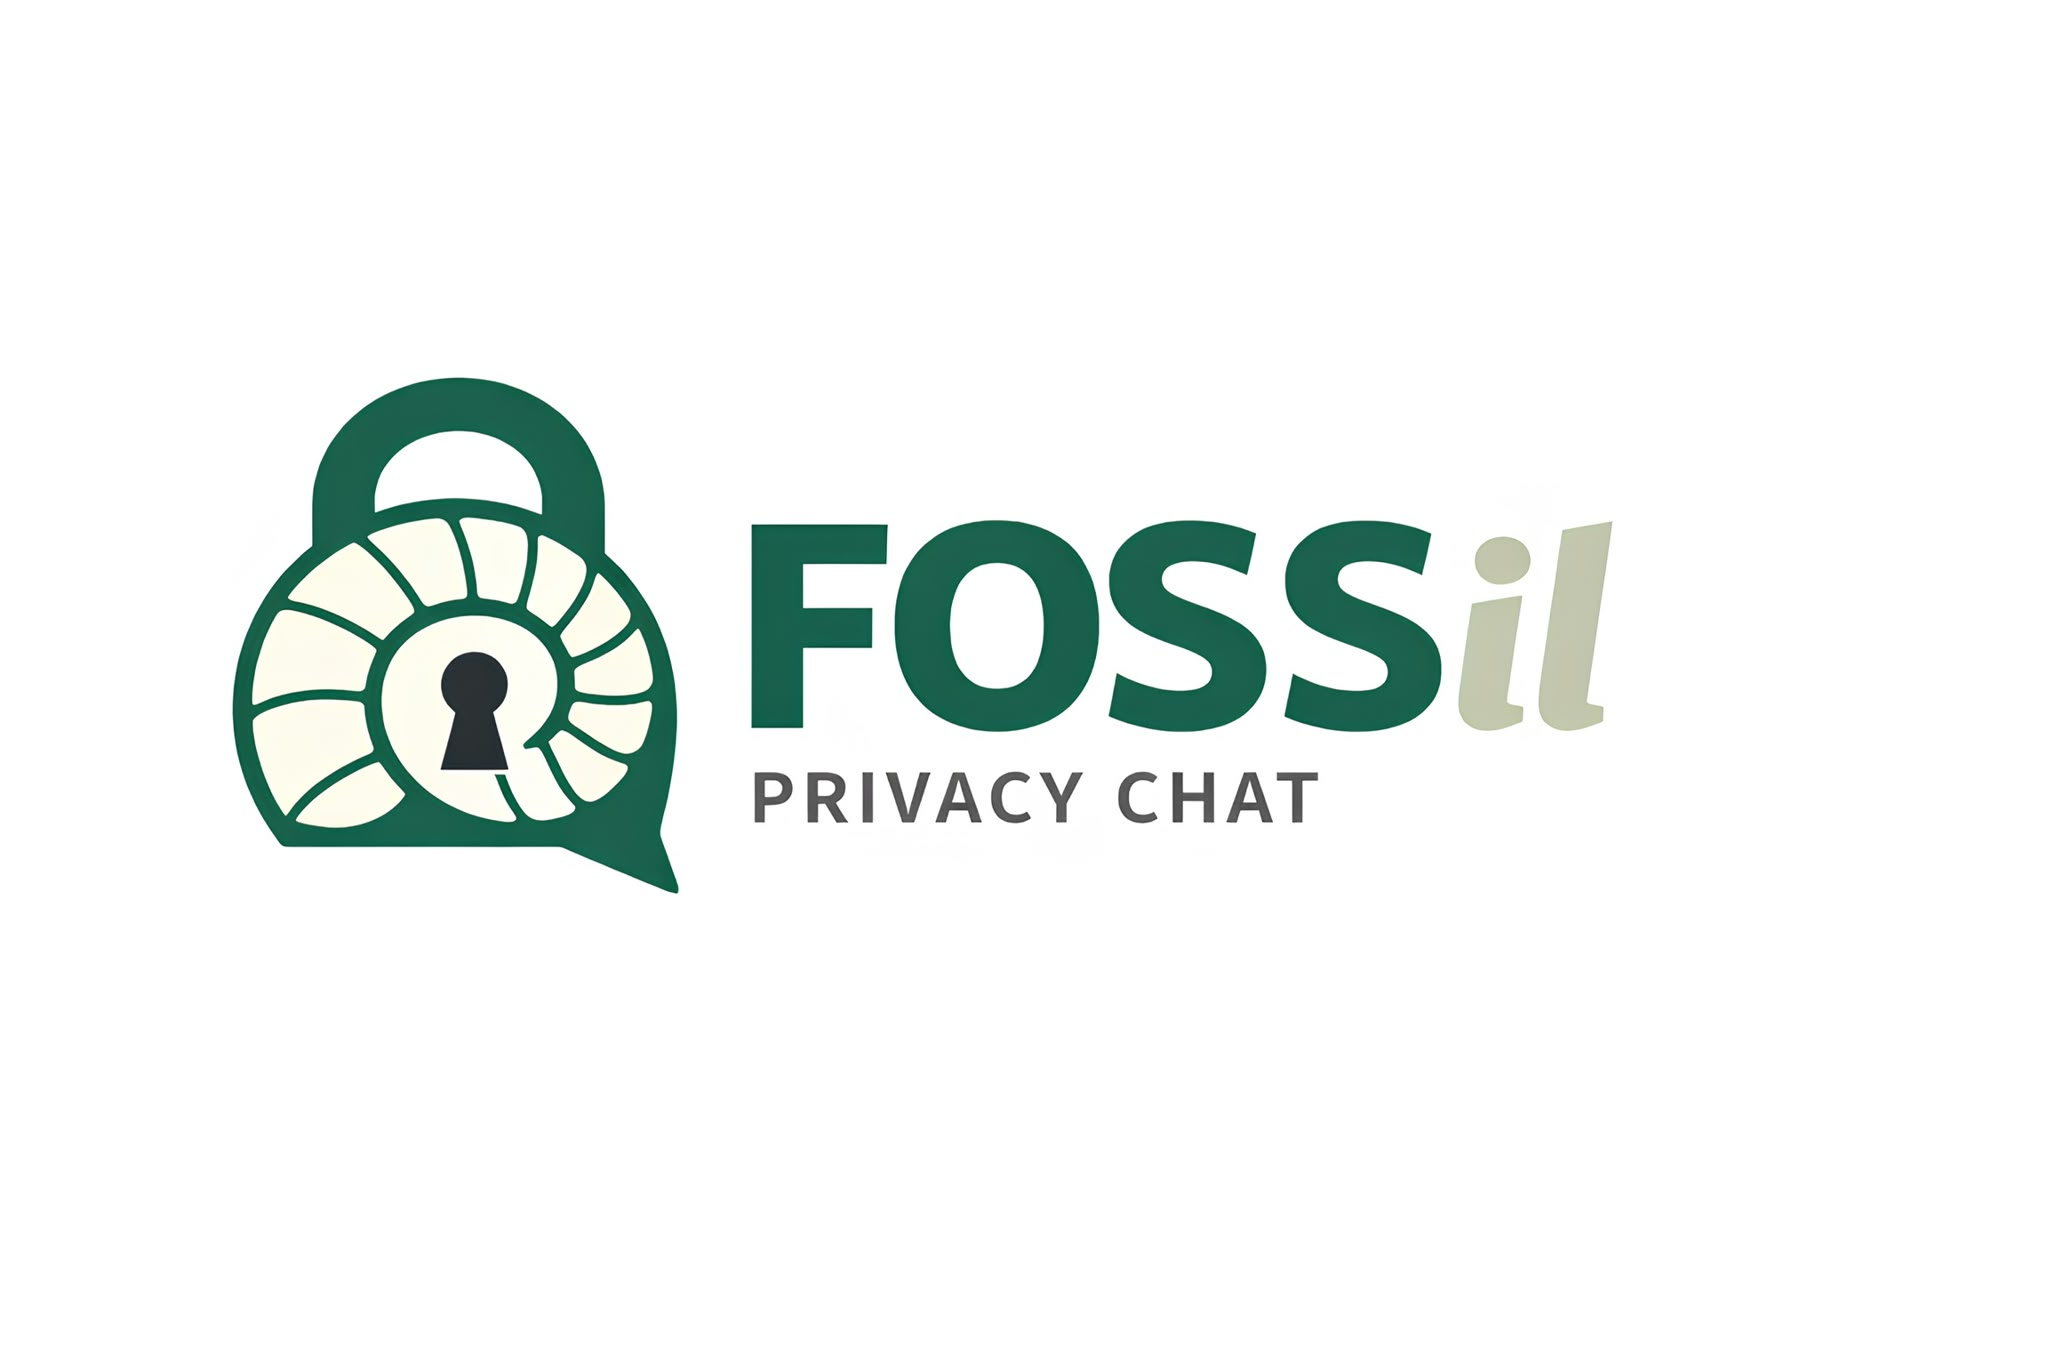
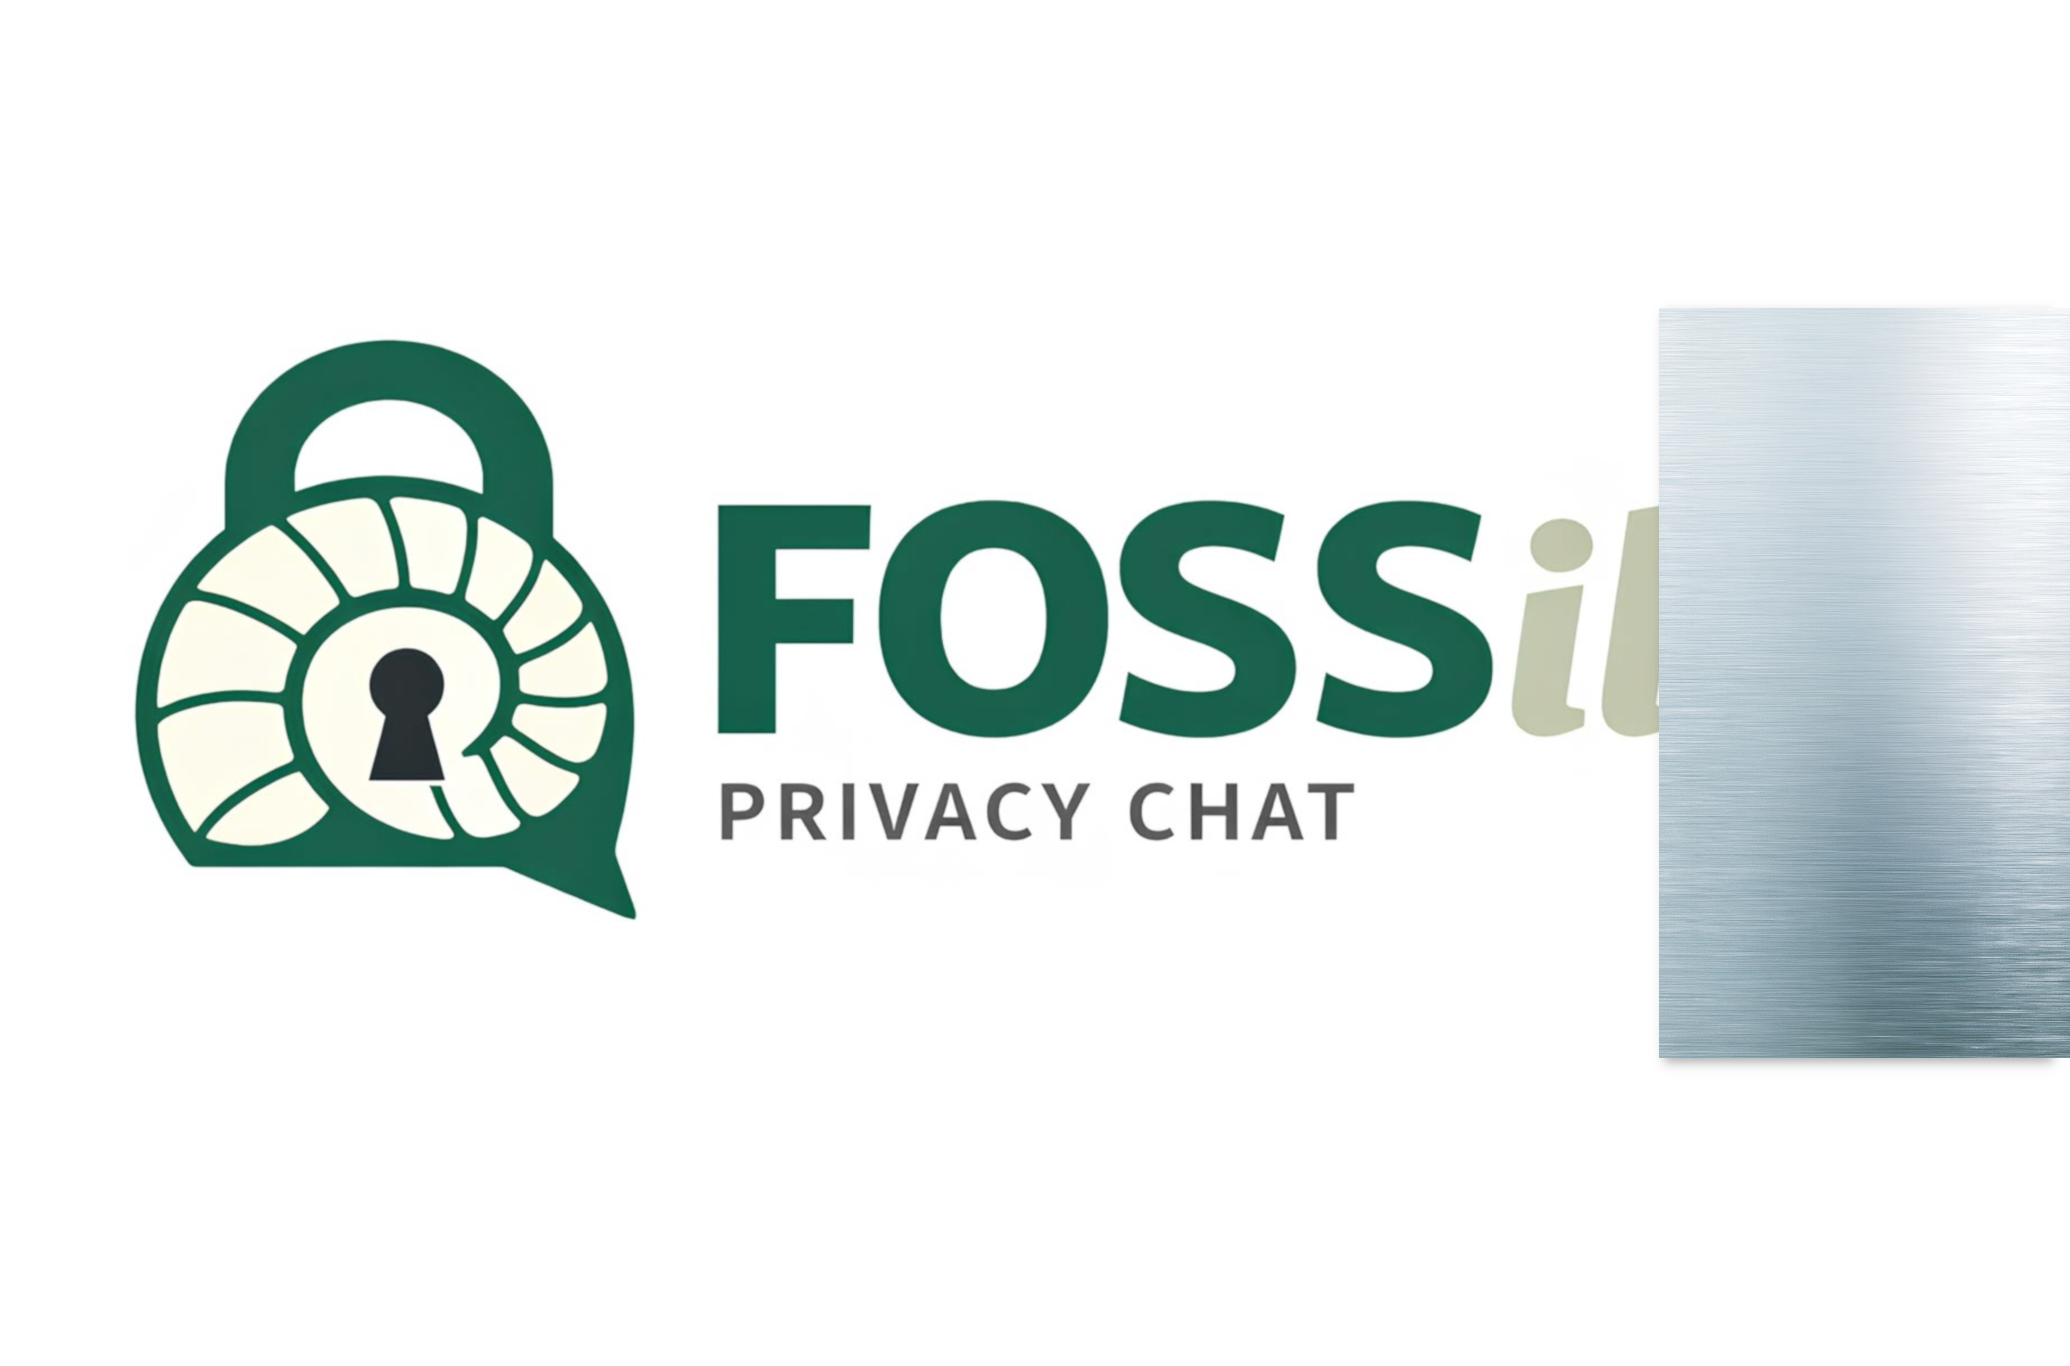
pinpointing design language

Changed region(s): [[0.0625, 0.2152, 1.0, 0.7994]]

diff --git a/client/src/gui.rs b/client/src/gui.rs
@@ -14,9 +14,9 @@ pub fn launch() {
 
 #[component]
 fn App() -> Element {
-    let fonts = format!(
+        let fonts = format!(
         "@font-face {{
-            font-family: 'Liberation Sans Regular';
+            font-family: 'Liberation Sans';
             src: url('{REGULAR}') format('truetype');
             font-weight: normal;
         }}
@@ -27,39 +27,36 @@ fn App() -> Element {
         }}"
     );
 
-    let rsx_style = format!(
-        "width: 100%;
-         height: 100vh;
-         background-image: url('{BG_IMAGE}');
-         background-size: cover;
-         background-position: center;
-         background-repeat: no-repeat;
-         display: flex;
-         flex-direction: column;
-         justify-content: center;
-         align-items: flex-end;
-         padding-right: 40px;"
-    );
-
     rsx! {
 
         style { "{fonts}" }
 
         div {
 
-            style: "{rsx_style}",
+            style: "position: relative; width: 100vw; height: 100vh; overflow: hidden;",
 
-            p {
-                style: "font-family: 'Liberation Sans'; font-weight: bold; font-size: 24px;",
-                "FOSSil Chat"
+            img {
+                src: "{BG_IMAGE}",
+                style: "position: absolute; top: 0; left: 0; width: 100%; height: 100%; object-fit: fill;"
             }
+            
+            div {
 
-            p {
-                style: "font-family: 'Liberation Sans'; font-weight: normal;",
-                "Welcome to FOSSil Chat!"
+                style: "position: absolute; top: 0; left: 0; width: 100%; height: 100%;
+                         display: flex; flex-direction: column;
+                         justify-content: center; align-items: flex-end;
+                         gap: 2vh; padding: 4vw; box-sizing: border-box;", 
+                p {
+                    style: "font-family: 'Liberation Sans'; font-weight: bold; font-size: 2.05vw;",
+                    "FOSSil Chat"
+                }
+
+                p {
+                    style: "font-family: 'Liberation Sans'; font-weight: normal; font-size: 1.25vw;",
+                    "Welcome to FOSSil Chat!"
+                }
+
             }
-
-
 
 
         }